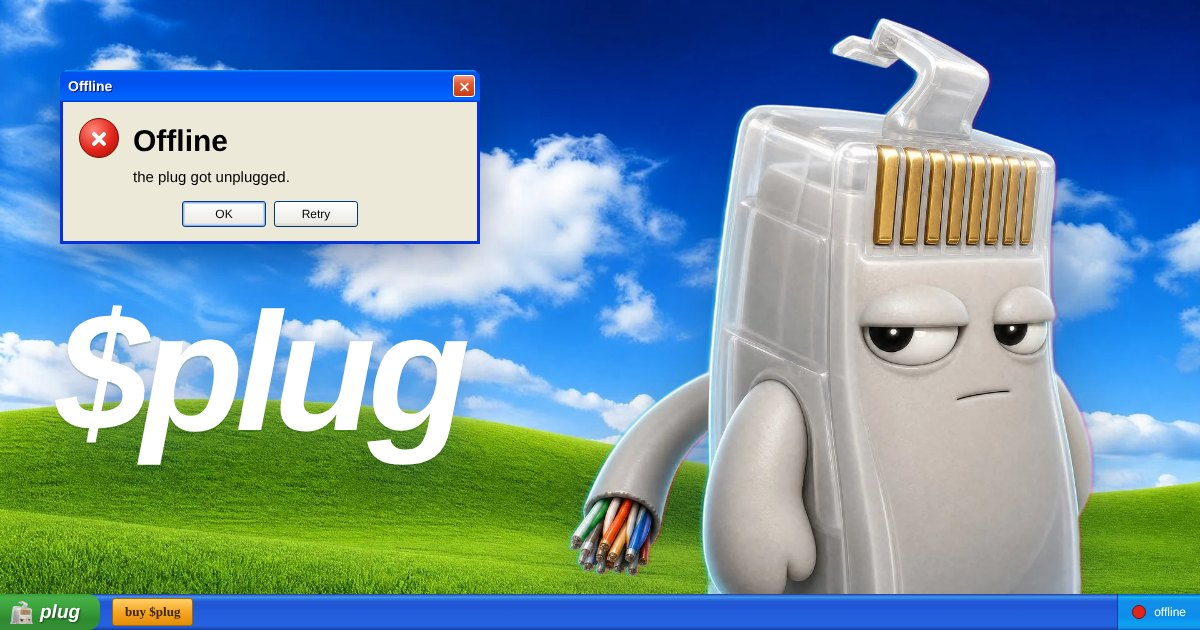
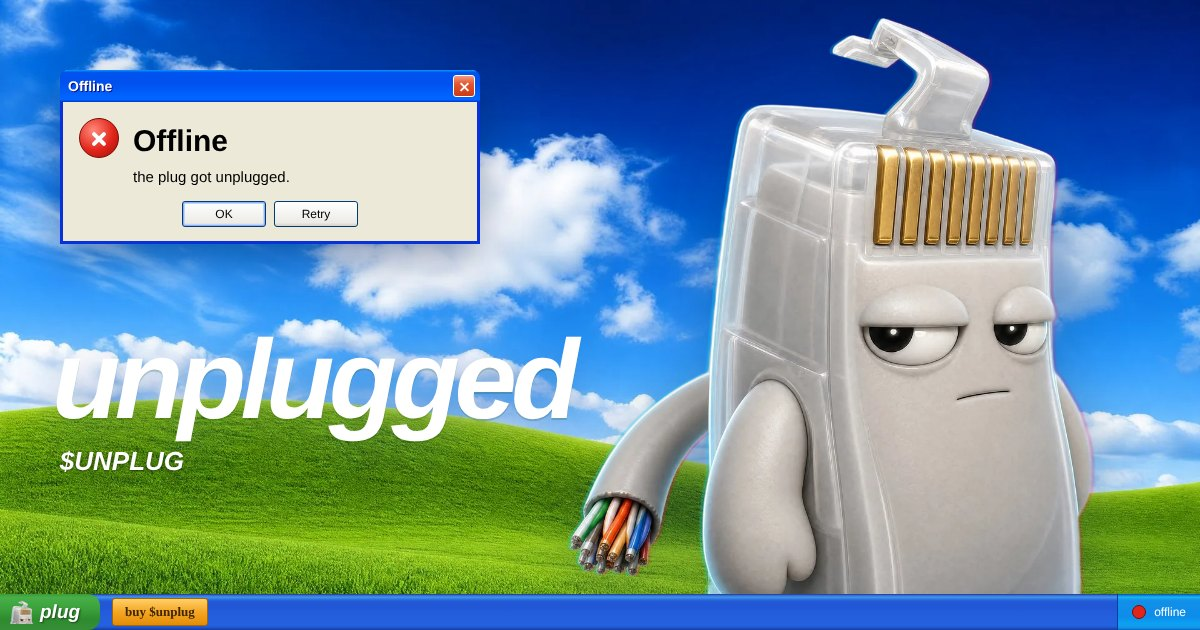
rename to unplugged ($UNPLUG), add CA
Claude-Session: https://claude.ai/code/session_017GEU9iaQoZg9W1svGfp8PA

Changed region(s): [[0.0308, 0.4825, 0.4933, 0.754], [0.1233, 0.9349, 0.185, 0.9952]]

diff --git a/src/style.css b/src/style.css
@@ -89,14 +89,14 @@ img { display: block; max-width: 100%; }
 
 .mark { position: absolute; z-index: 2; left: clamp(20px, 4.2vw, 64px); bottom: calc(var(--tb-h) + clamp(20px, 4vh, 44px)); color: #fff; pointer-events: none; }
 .mark b {
-  display: block; font: italic 800 clamp(70px, 9.4vw, 148px)/.86 var(--title); letter-spacing: -.05em;
+  display: block; font: italic 800 clamp(54px, 6.8vw, 116px)/.9 var(--title); letter-spacing: -.045em;
   text-shadow: 0 2px 0 rgba(0, 60, 0, .18), 0 10px 40px rgba(0, 50, 140, .35);
 }
 .mark small { display: block; margin: .75em 0 0 .3em; font: italic 600 clamp(15px, 1.5vw, 21px)/1.2 var(--title); text-shadow: 0 1px 3px rgba(0,0,0,.45); }
 
 /* sticky note */
 .sticky {
-  position: absolute; z-index: 4; top: 22px; right: 24px; width: 236px; padding: 26px 16px 14px; text-align: left;
+  position: absolute; z-index: 4; top: 22px; right: 24px; width: 252px; padding: 26px 16px 14px; text-align: left;
   background: linear-gradient(170deg, #fffbb8, #fff17c 70%, #f6e46a);
   box-shadow: 0 1px 0 rgba(0,0,0,.06), 4px 12px 22px rgba(0, 0, 0, .28);
   transform: rotate(2.4deg); color: #2a2a2a; font-family: var(--hand); transition: transform .2s ease;
@@ -109,7 +109,7 @@ img { display: block; max-width: 100%; }
 .sticky:hover { transform: rotate(.8deg) translateY(-2px); }
 .st-h { font: 700 25px/1 var(--hand); }
 .st-h em { font-style: normal; font-weight: 600; font-size: 19px; opacity: .65; }
-.sticky code { font: 700 22px/1.02 var(--hand); word-break: break-all; color: #12307a; margin-top: 4px; }
+.sticky code { font: 700 19px/1.05 var(--hand); letter-spacing: -.01em; word-break: break-all; color: #12307a; margin-top: 4px; }
 .st-s { font: 600 17px/1.1 var(--hand); opacity: .62; margin-top: 4px; }
 .sticky.done .st-s { opacity: 1; color: #1b7a1b; }
 
@@ -420,7 +420,7 @@ img { display: block; max-width: 100%; }
 /* ── responsive ─────────────────────────────────────── */
 @media (max-width: 960px) {
   .plug { right: -6vw; height: min(70vh, 640px); }
-  .mark b { font-size: clamp(60px, 11vw, 110px); }
+  .mark b { font-size: clamp(52px, 7.6vw, 96px); }
 }
 @media (max-width: 720px) {
   :root { --tb-h: 46px; }
@@ -431,12 +431,12 @@ img { display: block; max-width: 100%; }
   .icon span { font-size: 11px; }
   .sticky { top: 206px; right: auto; left: 14px; width: 172px; padding: 20px 12px 10px; transform: rotate(-2deg); }
   .st-h { font-size: 21px; } .st-h em { font-size: 16px; }
-  .sticky code { font-size: 18px; } .st-s { font-size: 15px; }
+  .sticky code { font-size: 15px; } .st-s { font-size: 15px; }
   .plug { right: -22vw; height: min(58vh, 500px); max-height: 128vw; }
   .bubble { position: fixed; right: 12px; left: auto; top: 222px; max-width: min(190px, calc(100vw - 206px)); font-size: 12px; }
   .bubble::after { right: auto; left: 60%; bottom: -11px; transform: skewX(-30deg) rotate(10deg); }
   .mark { left: 18px; top: 104px; bottom: auto; }
-  .mark b { font-size: 62px; }
+  .mark b { font-size: 56px; }
   .mark small { font-size: 14px; }
   .win, .w-pfp {
     position: fixed !important; left: 6px !important; right: 6px; top: 6px !important; width: auto !important;

diff --git a/index.html b/index.html
@@ -3,15 +3,15 @@
 <head>
   <meta charset="utf-8" />
   <meta name="viewport" content="width=device-width, initial-scale=1, viewport-fit=cover" />
-  <title>$PLUG · the plug got unplugged.</title>
+  <title>$UNPLUG · the plug got unplugged.</title>
   <meta name="description" content="the plug got unplugged. a network cable on your desktop. still offline." />
   <meta property="og:type" content="website" />
-  <meta property="og:title" content="$PLUG" />
+  <meta property="og:title" content="unplugged ($UNPLUG)" />
   <meta property="og:description" content="the plug got unplugged." />
   <!-- byt /og.jpg till full url (https://dindomän/og.jpg) när domänen finns — X vill ha absolut länk -->
   <meta property="og:image" content="/og.jpg" />
   <meta name="twitter:card" content="summary_large_image" />
-  <meta name="twitter:title" content="$PLUG" />
+  <meta name="twitter:title" content="unplugged ($UNPLUG)" />
   <meta name="twitter:description" content="the plug got unplugged." />
   <meta name="twitter:image" content="/og.jpg" />
   <meta name="theme-color" content="#245edb" />
@@ -28,7 +28,7 @@
         <img id="faceHappy" src="/img/plug-happy-sm.webp" alt="" class="off" />
         <img id="faceSide" src="/img/plug-side-sm.webp" alt="" class="off" />
       </div>
-      <div class="boot-logo" aria-label="plug"><span>plug</span></div>
+      <div class="boot-logo" aria-label="unplugged"><span>unplugged</span></div>
       <div class="boot-bar" id="bootBar"><div class="boot-blocks"><i></i><i></i><i></i></div></div>
       <p class="boot-msg" id="bootMsg">obtaining network address…</p>
       <button class="boot-btn" id="plugIn" hidden>
@@ -50,7 +50,7 @@
     </ul>
 
     <div class="mark" aria-hidden="true">
-      <b>plug</b>
+      <b>unplugged</b>
       <small>the plug got unplugged.</small>
     </div>
 
@@ -84,7 +84,7 @@
       <header class="sm-head"><img src="/img/ico-plug.webp" alt="" /><b>plug</b><small>offline</small></header>
       <div class="sm-cols">
         <ul class="sm-left">
-          <li><a class="sm-item big" data-link="buy"><img src="/img/ico-plug.webp" alt="" /><span><b>buy $plug</b><small>pump.fun</small></span></a></li>
+          <li><a class="sm-item big" data-link="buy"><img src="/img/ico-plug.webp" alt="" /><span><b>buy $unplug</b><small>pump.fun</small></span></a></li>
           <li><a class="sm-item big" data-link="chart"><img src="/img/ico-network.webp" alt="" /><span><b>chart</b><small>dexscreener</small></span></a></li>
           <li><button class="sm-item big" data-act="copyca"><img src="/img/ico-notepad.webp" alt="" /><span><b>copy ca</b><small id="smCa">no ca yet</small></span></button></li>
           <li class="sm-sep"></li>
@@ -112,7 +112,7 @@
         <img src="/img/ico-plug.webp" alt="" /><span>plug</span>
       </button>
       <div class="quick">
-        <a class="tb-buy" data-link="buy">buy $plug</a>
+        <a class="tb-buy" data-link="buy">buy $unplug</a>
       </div>
       <div class="tasks" id="tasks"></div>
       <div class="tray">

diff --git a/src/pfp.js b/src/pfp.js
@@ -32,7 +32,7 @@ export const STICKERS = [
   { id: 'stamp', label: 'offline', line: 'official now.' },
   { id: 'bars', label: '0 bars', line: 'accurate.' },
   { id: 'window', label: 'window', line: "framed. can't close it." },
-  { id: 'ticker', label: '$plug', line: 'the ticker. on me. weird.' },
+  { id: 'ticker', label: '$unplug', line: 'the ticker. on me. weird.' },
 ];
 
 const imgCache = new Map();
@@ -199,7 +199,7 @@ function drawSticker(c, id, size) {
     c.restore();
   } else if (id === 'ticker') {
     c.save();
-    const x = 50 * k, y = 54 * k, w = 290 * k, h = 96 * k;
+    const x = 50 * k, y = 54 * k, w = 350 * k, h = 96 * k;
     c.shadowColor = 'rgba(0,0,0,.35)'; c.shadowBlur = 18 * k; c.shadowOffsetY = 6 * k;
     const g = c.createLinearGradient(0, y, 0, y + h);
     g.addColorStop(0, '#5fd35f'); g.addColorStop(0.5, '#2f9e2f'); g.addColorStop(1, '#1d7a1d');
@@ -207,7 +207,7 @@ function drawSticker(c, id, size) {
     c.shadowColor = 'transparent';
     c.fillStyle = '#fff'; c.font = `italic 800 ${62 * k}px ${TITLE}`; c.textBaseline = 'middle'; c.textAlign = 'center';
     c.shadowColor = 'rgba(0,0,0,.4)'; c.shadowOffsetX = 2 * k; c.shadowOffsetY = 2 * k;
-    c.fillText('$plug', x + w / 2, y + h / 2 + 3 * k);
+    c.fillText('$unplug', x + w / 2, y + h / 2 + 3 * k);
     c.restore();
   }
 }
@@ -339,7 +339,7 @@ export function openPfp({ say, face }) {
         line("can't copy here. hit save png instead.");
       }
     } else if (act === 'share') {
-      const text = `the plug got unplugged.\n\n$PLUG\n${siteUrl()}`;
+      const text = `the plug got unplugged.\n\n$UNPLUG\n${siteUrl()}`;
       window.open(`https://x.com/intent/post?text=${encodeURIComponent(text)}`, '_blank', 'noopener');
       line("save the png and attach it. i can't. no internet.");
     }

diff --git a/src/main.js b/src/main.js
@@ -421,7 +421,7 @@ function openViewer(i) {
       say('saved. go post it. i would, but.', 2600);
     }
     if (v === 'post') {
-      const text = `$PLUG\n${siteUrl()}`;
+      const text = `$UNPLUG\n${siteUrl()}`;
       window.open(`https://x.com/intent/post?text=${encodeURIComponent(text)}`, '_blank', 'noopener');
     }
   });
@@ -442,7 +442,7 @@ every coin he holds is online. he is not.
 he can't sell. no connection.
 
 — do not delete this file.`;
-const DISCLAIMER = `$plug is a memecoin.
+const DISCLAIMER = `$unplug is a memecoin.
 no intrinsic value. no roadmap. no expectation of financial return.
 
 plug is a fictional cable. nothing here is financial advice.
@@ -487,7 +487,7 @@ function netHtml() {
     ${CONFIG.ca ? '' : `<p class="net-note">no ca yet. numbers show up the second he's live.</p>`}
     <div class="net-btns">
       <a class="xbtn" data-link="chart" style="display:grid;place-items:center">chart</a>
-      <a class="xbtn def" data-link="buy" style="display:grid;place-items:center">buy $plug</a>
+      <a class="xbtn def" data-link="buy" style="display:grid;place-items:center">buy $unplug</a>
       <button class="xbtn" data-n="repair">repair</button>
     </div>`;
 }

diff --git a/src/config.js b/src/config.js
@@ -1,8 +1,8 @@
 // ─────────────────────────────────────────────────────────────
-//  $PLUG — fyll i vid launch. Allt annat på sajten läser härifrån.
+//  unplugged ($UNPLUG) — fyll i vid launch. Allt annat på sajten läser härifrån.
 // ─────────────────────────────────────────────────────────────
 export const CONFIG = {
-  ca: '',          // contract address (pump.fun). Tom = sajten visar "no ca yet."
+  ca: '9psCJXusVEkQuSt932kEVt6Qj84evEmoj2opJ7nfpump', // contract address (pump.fun)
   x: '',           // https://x.com/...
   telegram: '',    // https://t.me/...
   dexscreener: '', // valfri: egen chart-länk. Tom = byggs från CA

diff --git a/README.md b/README.md
@@ -1,4 +1,4 @@
-# $PLUG — the plug got unplugged.
+# unplugged ($UNPLUG) — the plug got unplugged.
 
 En nätverkskontakt som bor på ditt skrivbord. Han är offline. Han kan inte sälja.
 
